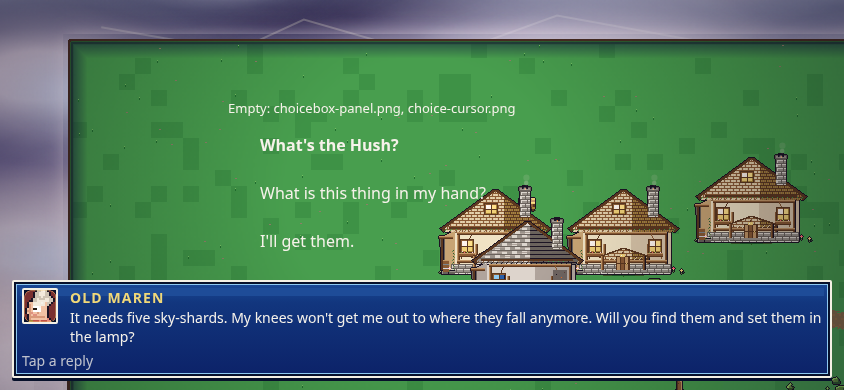
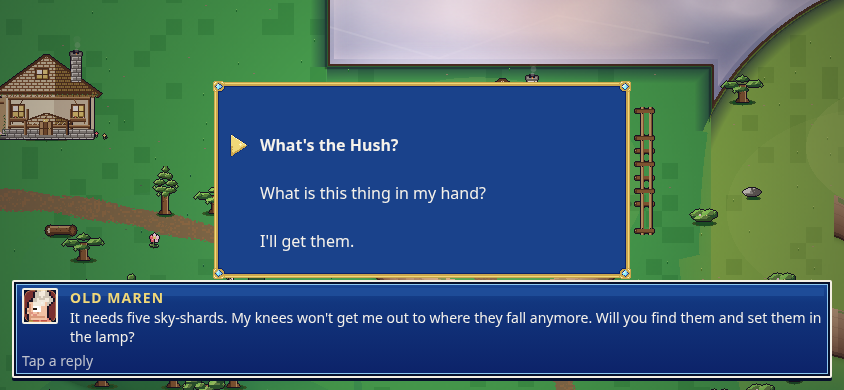
Fill ChoiceBox slots with v0.1.0 test art and recapture evidence.
Panel and cursor come from game-art PR #7 @04e5165. They are test art,
not approved to ship, and used no PixelLab spend. The panel is a 9-slice
(border-image-slice: 16 fill, 16px border). The empty-slot notice stays
as a fallback if a file fails to load.

diff --git a/js/ui/choice-box.js b/js/ui/choice-box.js
@@ -110,7 +110,7 @@ function cssText() {
     + "gap:" + gap + "px;padding:" + inset + "px;box-sizing:border-box;overflow:hidden;"
     + "background:transparent;color:#f6f2ea;"
     + "font-family:\"Avenir Next\",\"Segoe UI\",system-ui,sans-serif;"
-    + "touch-action:manipulation;}"
+    + "touch-action:manipulation;image-rendering:pixelated;image-rendering:crisp-edges;}"
     + "#sf-choicebox *{box-sizing:border-box;}"
     + "#sf-choicebox button{display:flex;align-items:center;gap:8px;width:100%;margin:0;padding:0;"
     + "flex:0 0 " + targetH + "px;height:" + targetH + "px;min-height:" + targetH + "px;"
@@ -119,12 +119,12 @@ function cssText() {
     + "text-align:left;cursor:pointer;-webkit-tap-highlight-color:transparent;}"
     + "#sf-choicebox button.is-on .sf-choice-label{font-weight:700;}"
     + "#sf-choicebox .sf-choice-mark{width:24px;height:24px;flex:0 0 24px;overflow:hidden;}"
-    + "#sf-choicebox .sf-choice-cursor{width:24px;height:24px;display:block;object-fit:contain;}"
+    + "#sf-choicebox .sf-choice-cursor{width:24px;height:24px;display:block;object-fit:contain;image-rendering:pixelated;image-rendering:crisp-edges;}"
     + "#sf-choicebox .sf-choice-label{flex:1 1 auto;min-width:0;overflow:hidden;white-space:nowrap;text-overflow:ellipsis;}"
     + "#sf-choicebox .sf-choicebox-status{display:flex;align-items:center;gap:6px;margin:0;overflow:hidden;"
     + "height:" + statusH + "px;flex:0 0 " + statusH + "px;white-space:nowrap;"
     + "font-size:13px;line-height:16px;}"
-    + "#sf-choicebox .sf-choicebox-panel{width:24px;height:24px;flex:0 0 24px;object-fit:contain;}"
+    + "#sf-choicebox .sf-choicebox-panel{width:24px;height:24px;flex:0 0 24px;object-fit:contain;image-rendering:pixelated;image-rendering:crisp-edges;}"
     + "@media (prefers-reduced-motion:reduce){#sf-choicebox,#sf-choicebox *{animation:none !important;transition:none !important;}}";
 }
 
@@ -377,13 +377,11 @@ function openBox(list, onPick) {
     });
   }
 
+  // The panel PNG is applied as a 9-slice border-image. Do not also
+  // insert a 24x24 copy of that texture into the status row.
   watchImage(panel, function (ok) {
     if (session.settled) return;
     session.panelOk = !!ok;
-    if (ok) {
-      panel.className = "sf-choicebox-panel";
-      status.insertBefore(panel, note);
-    }
     refreshNote(session);
   });
   watchImage(cursor, function (ok) {

diff --git a/assets/ui/CHOICEBOX-ASSETS.md b/assets/ui/CHOICEBOX-ASSETS.md
@@ -1,24 +1,35 @@
 # ChoiceBox image slots
 
-ChoiceBox loads each file below as its own image. The code does not draw the panel, the cursor, or button chrome. These two files are empty slots (0 bytes) until the art supplier replaces them. Keep the file names.
+ChoiceBox loads each file below as its own image. The code does not draw the panel, the cursor, or button chrome. Keep the file names.
 
 The dialogue panel in `css/style.css` is gradients and borders, not a PNG, so it is not reused. The repo has no dialogue-panel or button PNG.
+
+## Provenance (test art, not approved to ship)
+
+These two PNGs are Game Art & Motion test art for the ChoiceBox spike (draft PR awsumbtech/shardfall#53). They are not approved to ship.
+
+- Source: awsumbtech/game-art PR #7, branch `art/shardfall-choicebox-ui-v0.1.0`, commit `04e5165`, path `shardfall/ui/choicebox/v0.1.0/`.
+- Version: 0.1.0 (panel-b + cursor-b).
[1 lines of base64/hex data omitted]
+- No PixelLab spend. Generated with Grok Bot built-in image generation, then cleaned with unfake.js and assembled as a 9-slice / 24×24 cursor. No Kenmi / Cute Fantasy / shardfall-assets pixels were used as reference or input.
+
+If a file is missing, empty, or fails to load, ChoiceBox does not insert a broken-image icon. The `Empty: …` notice is the fallback for that case.
 
 ## `assets/ui/choicebox-panel.png`
 
 - Role: the choice panel frame, as a 9-slice.
-- Pixel size: 48 × 48.
+- Pixel size: 48 × 48, RGBA.
 - 9-slice insets: 16 px left, 16 px top, 16 px right, 16 px bottom.
 - Corners: 16 × 16, unstretched.
 - Edges: the 16 px strips between the corners stretch along each side.
-- Center: the inner 16 × 16 fills the panel.
-- After the file loads as a real image, ChoiceBox applies it with CSS `border-image-slice: 16 fill` and a 16 px border width. That border is the slice of this PNG. It is not drawn when the file is missing or empty.
+- Center: the inner 16 × 16 fills the panel (flat `#1a428b`).
+- After the file loads as a real image, ChoiceBox applies it with CSS `border-image-slice: 16 fill` and a 16 px border width, plus `image-rendering: pixelated`. That border is the slice of this PNG. It is not drawn when the file is missing or empty.
 - The laid-out box stays inside a 390 × 844 viewport and an 844 × 390 viewport.
 
 ## `assets/ui/choice-cursor.png`
 
 - Role: the selection cursor, shown on the highlighted choice.
-- Pixel size: 24 × 24.
+- Pixel size: 24 × 24, RGBA.
 - Not a 9-slice. Displayed at 24 × 24 CSS pixels inside the row.
 - Each choice row is at least 44 px tall and 44 px wide.
 

diff --git a/assets/ASSETS.md b/assets/ASSETS.md
@@ -1,0 +1,14 @@
+# Shardfall `assets/` inventory
+
+This folder holds image files loaded by the game. Atlas tilesets stay in `assets/atlas/` (gitignored vendor art) and are not listed here.
+
+## UI — ChoiceBox (test art, not approved to ship)
+
+| File | Size | Role |
+| --- | --- | --- |
+| `assets/ui/choicebox-panel.png` | 48×48, 9-slice insets 16 | Choice panel frame |
+| `assets/ui/choice-cursor.png` | 24×24 | Selection cursor |
+
+Provenance: Game Art & Motion, awsumbtech/game-art PR #7 @ `04e5165` (`art/shardfall-choicebox-ui-v0.1.0`, path `shardfall/ui/choicebox/v0.1.0/`). Version 0.1.0. No PixelLab spend. Test art for draft PR awsumbtech/shardfall#53. Not approved to ship.
+
+SHA-256 and CSS notes are in `assets/ui/CHOICEBOX-ASSETS.md`.
